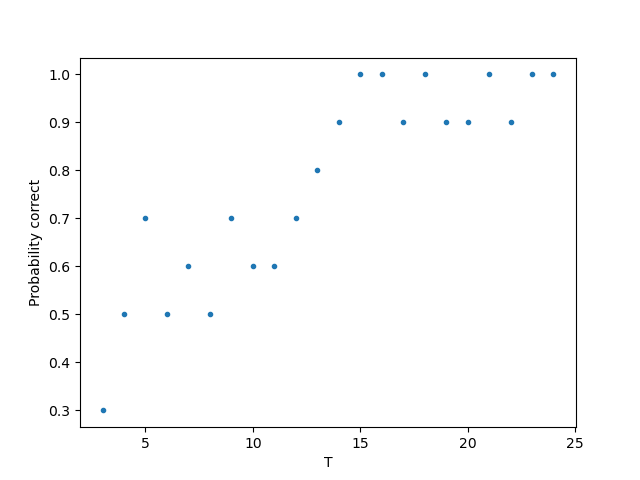
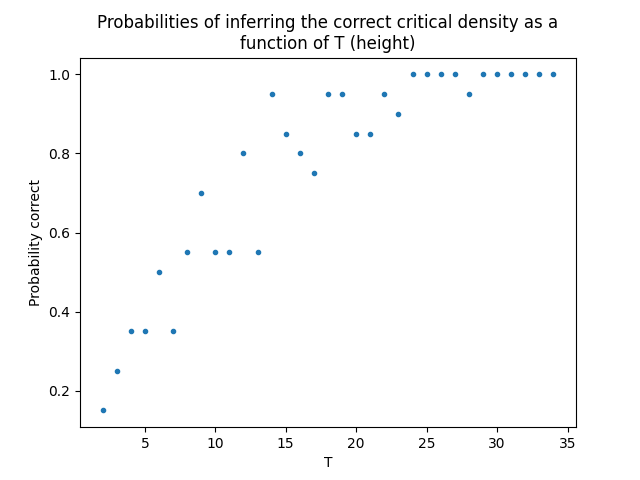
docstrings

diff --git a/LAB4/carflow.py b/LAB4/carflow.py
@@ -1,24 +1,22 @@
+"""
+"Ca.py"
+
+Developed by:
+Jenna de Vries and Derk Niessink
+
+This module contains the class "CarFlow":
+
+- "CarFlow": class for running a 1D celullar automaton (CA) as a one-lane
+freeway model (k=2, r=1). The class allows for testing the car flow as function
+of the car density and the correctness of the model as function of the number
+of timesteps.
+"""
+
+
 from ca import CASim
 
 import numpy as np
 import matplotlib.pyplot as plt
-
-
-def linear_interpolation(carflows, densities):
-        """Returns quadratric interpolated maximum given the x (densities) and y
-        (carflows) lists"""
-        max_index=carflows.index(max(carflows))
-
-        y1 = carflows[max_index-1]
-        y2 = carflows[max_index]
-        y3 = carflows[max_index+1]
-
-        x2 = densities[max_index]
-        x3 = densities[max_index+1]
-
-        difference= 0.5 * ( (y1-y3) / (y1-2*y2+y3))
-        x = x2+ (x3-x2)*difference
-        return x
 
 
 class CarFLow:
@@ -37,6 +35,7 @@ class CarFLow:
             t += 1
 
     def carflow(self):
+        """Compute the car flow and its standard deviation"""
         carflows = []
         for _ in range(self.N):
             self.run()
@@ -47,13 +46,15 @@ class CarFLow:
             carflows.append(cars / self.sim.height)
         return np.mean(carflows), np.std(carflows)
 
-    def sweep_density(self, stepsize, N):
+    def sweep_density(self, stepsize: float, N: int):
+        """Compute the car flow with errors as function of the car density for
+        a specific stepsize and number of repetitions N."""
 
         self.all_carflows = []
         self.carflow_errors = []
         self.densities = []
-
         self.N = N
+
         for density in np.arange(0, 1 + stepsize, stepsize):
             self.sim.init_row_prob = density
             carflow, error = self.carflow()
@@ -61,29 +62,62 @@ class CarFLow:
             self.carflow_errors.append(error)
             self.densities.append(density)
 
-    def sweep_time(self, real_carflows, real_densities):
+    def sweep_time(
+        self,
+        real_carflows: list,
+        real_densities: list,
+        time_range: list,
+        time_stepsize: float,
+        N: int,
+        repetitions: int,
+    ):
+        """Compute the correctness of a model for a given range of times
+        (heights) by comparing each critical density value with the value of a
+        given reference model.
+
+        The critical density is defined as the density where the phase
+        transition occurs (increasing to suddenly decreasing car flow).
+
+        The model is "correct" when the critical density falls within the range
+        reference critical density +/- 0.05.
+        """
 
         self.probabilities = []
         self.times = []
 
-        critical_density = linear_interpolation(real_carflows, real_densities)
-        print(critical_density)
-        for T in np.arange(3, 25, 1):
+        critical_density = self.linear_interpolation(real_carflows, real_densities)
+
+        for T in np.arange(time_range[0], time_range[1], time_stepsize):
+            print(f"Computing T = {T}...")
             self.sim.height = T
-            correct=0
-            for _ in range(20):
-                self.sweep_density(0.05, 10)
-                guessed_density = linear_interpolation(self.all_carflows, self.densities)
-                print(T, guessed_density)
-                if (
-                    critical_density - 0.05
-                    < guessed_density
-                    < critical_density + 0.05
-                ):
+            correct = 0
+
+            for _ in range(repetitions):
+                self.sweep_density(stepsize=0.05, N=N)
+                guessed_density = self.linear_interpolation(
+                    self.all_carflows, self.densities
+                )
+
+                if critical_density - 0.05 < guessed_density < critical_density + 0.05:
                     correct += 1
 
-            self.probabilities.append(correct / 10)
+            self.probabilities.append(correct / repetitions)
             self.times.append(T)
+
+    def linear_interpolation(self, carflows: list, densities: list):
+        """Returns quadratric interpolated maximum given the x (densities) and y
+        (carflows) lists"""
+        max_index = carflows.index(max(carflows))
+
+        y1 = carflows[max_index - 1]
+        y2 = carflows[max_index]
+        y3 = carflows[max_index + 1]
+
+        x2 = densities[max_index]
+        x3 = densities[max_index + 1]
+
+        difference = 0.5 * ((y1 - y3) / (y1 - 2 * y2 + y3))
+        return x2 + (x3 - x2) * difference
 
     def plot_carflow(self):
         plt.clf()
@@ -100,14 +134,24 @@ class CarFLow:
     def plot_probabilities(self):
         plt.clf()
         plt.plot(self.times, self.probabilities, ".")
+        plt.title(
+            "Probabilities of inferring the correct critical density as a\nfunction of T (height)"
+        )
         plt.xlabel("T")
         plt.ylabel("Probability correct")
         plt.savefig("probabilities.png")
 
 
 if __name__ == "__main__":
-    test = CarFLow(width=50, height=500)
+    test = CarFLow(width=50, height=1000)
     test.sweep_density(stepsize=0.05, N=10)
     test.plot_carflow()
-    test.sweep_time(test.all_carflows, test.densities)
+    test.sweep_time(
+        real_carflows=test.all_carflows,
+        real_densities=test.densities,
+        time_range=[2, 35],
+        time_stepsize=1,
+        N=10,
+        repetitions=20,
+    )
     test.plot_probabilities()

diff --git a/LAB4/ca.py b/LAB4/ca.py
@@ -4,16 +4,9 @@
 Developed by:
 Jenna de Vries and Derk Niessink
 
-This module contains two classes:
+This module contains the class "CASim":
 
 - "CASim": class for running a 1D celullar automaton (CA) with a GUI.
-
-- "CASimFig" class for measuring and plotting the average cycle length per rule.
-
-Run this module as "Ca.py gui" to start up the gui. Running this module just as
-"Ca.py" will run the simulation for all rules and generate the plot in the file:
-"cycle_lengths.png". The parameters of the CA can be adjusted in the bottom of
-this file. The plot is colored in with data from the file: "rule_class_wolfram.csv".
 """
 
 
